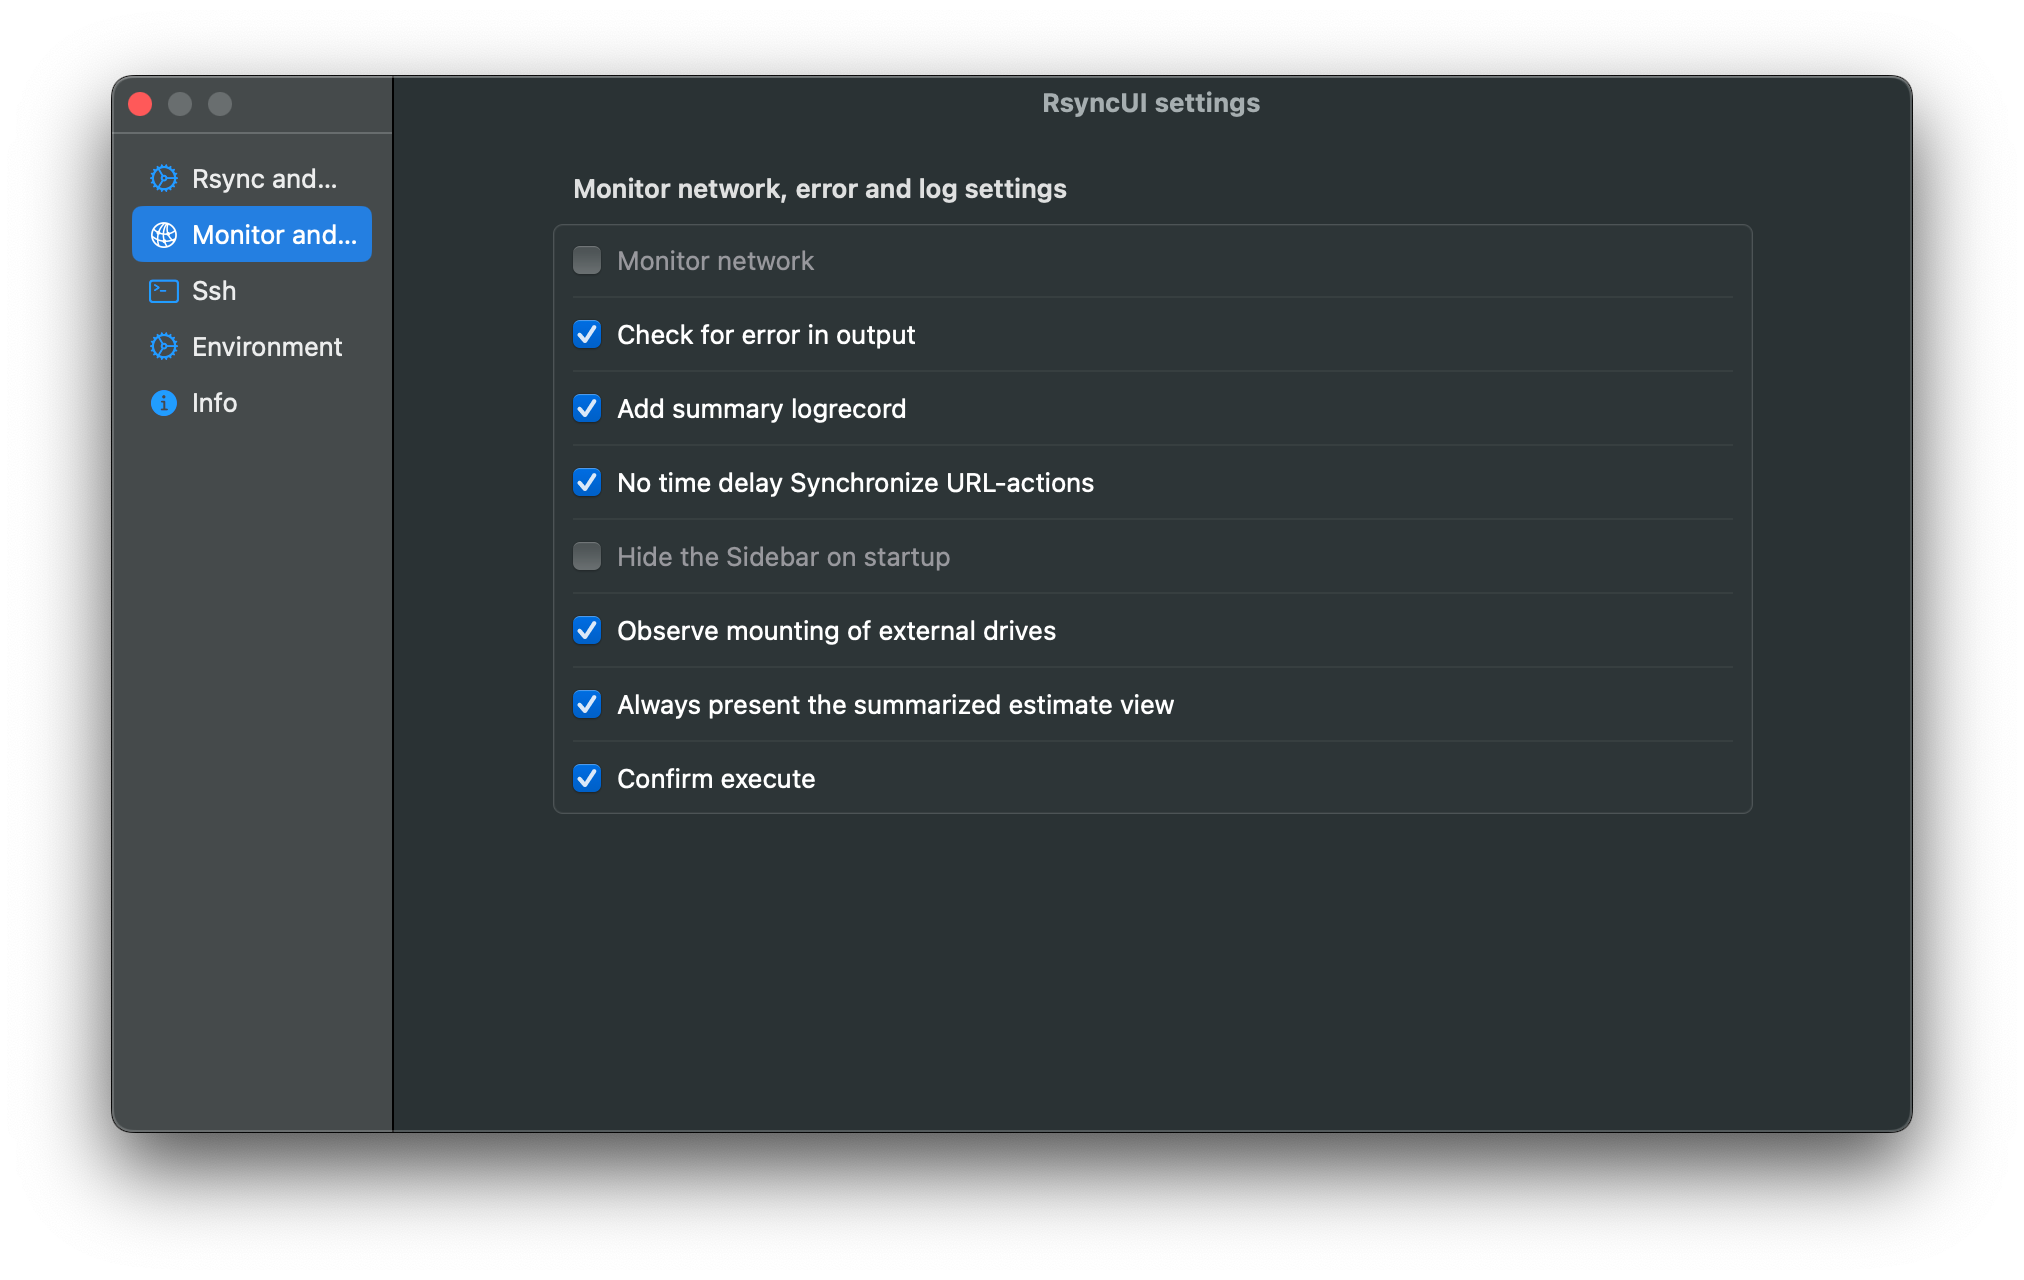
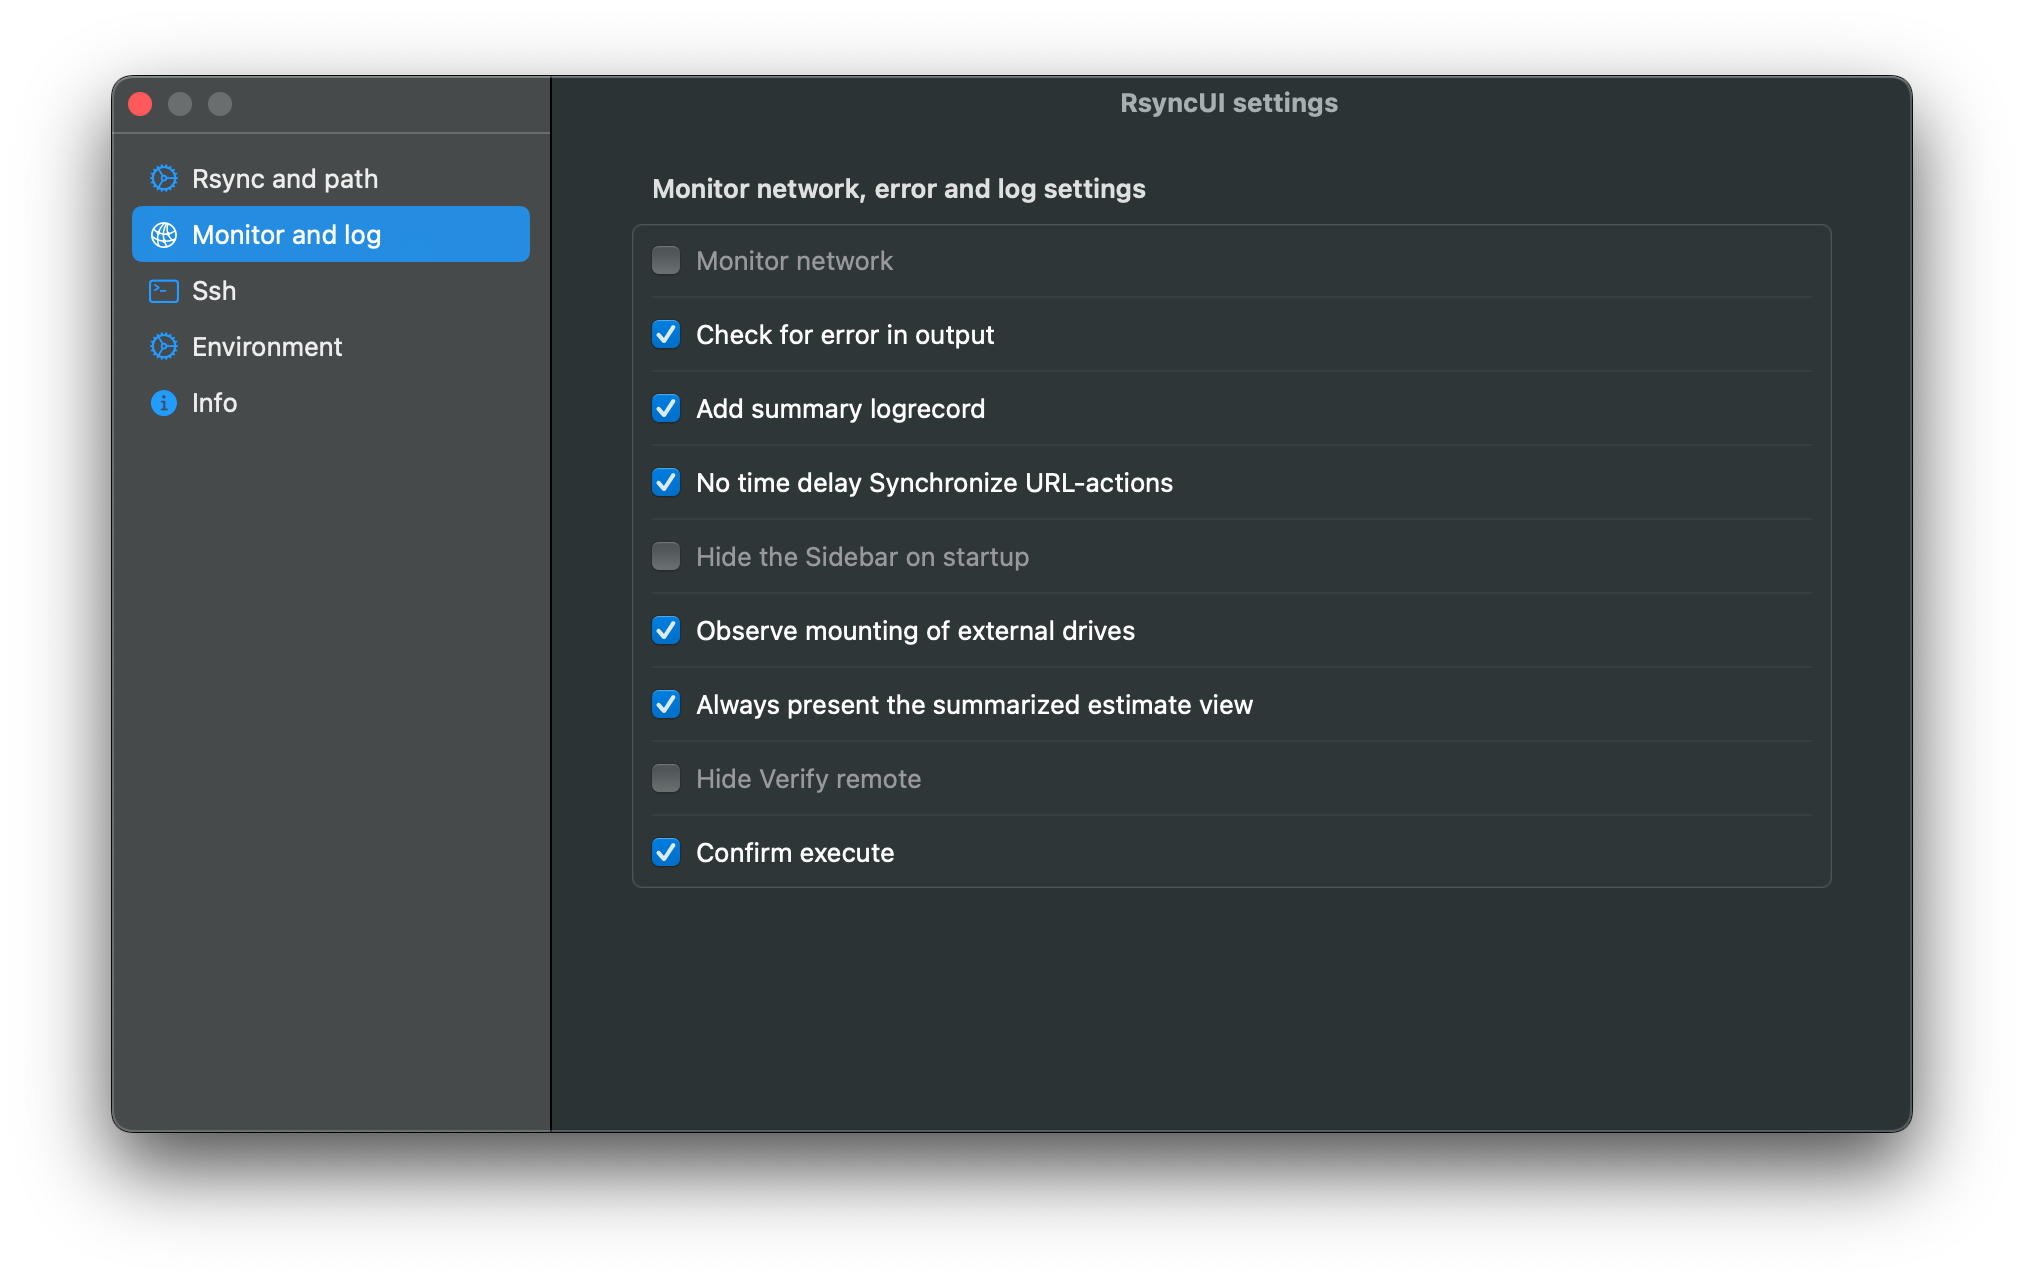
update

Changed region(s): [[0.1556, 0.0625, 0.6225, 0.9062], [0.498, 0.0625, 0.6537, 0.0938], [0.3113, 0.6562, 0.4358, 0.6875]]

diff --git a/content/en/docs/Important.md b/content/en/docs/Important.md
@@ -16,7 +16,7 @@ RsyncUI is a complimentary and open-source application. Kindly review the MIT li
 
 {{< /alert >}}
 
-Before executing a new task in RsyncUI, please perform an estimation run, a `--dry-run`, and inspect the result. If you inadvertently set an empty catalog as the source and the *delete parameter* is *enabled*, rsync will delete all files in the destination.
+Before executing a new task in RsyncUI, please perform an estimation run, a --dry-run, and inspect the result. If you inadvertently set an empty catalog as the source and the *delete parameter* is *enabled*, rsync will delete all files in the destination.
 
 {{< alert >}}
 
@@ -26,7 +26,7 @@ For instructions on executing an estimation run, refer to the *Getting started* 
 
 #### The delete parameter
 
-The `—delete` parameter, herein referred to as the *parameter*, enables rsync to maintain absolute synchronization between the source and destination directories. When a file is deleted from the source, the *parameter* instructs rsync to delete the corresponding file from the destination. Conversely, if the *parameter* is disabled, the destination directory will contain additional data after deleting files from the source.
+The --delete parameter, herein referred to as the *parameter*, enables rsync to maintain absolute synchronization between the source and destination directories. When a file is deleted from the source, the *parameter* instructs rsync to delete the corresponding file from the destination. Conversely, if the *parameter* is disabled, the destination directory will contain additional data after deleting files from the source.
 
 Therefore, it is crucial to ascertain whether the *parameter* is enabled or disabled. Enabling the *parameter* ensures complete synchronization between the source and destination directories.
 
@@ -43,7 +43,7 @@ Select the *Rsync parameters* from the primary Sidebar menu.  Select the task fo
 - if ON, the --delete parameter is included
 - if off, the --delete parameter is removed
 
-The complete rsync string is updatet when parameters are changed. 
+The complete rsync string is updated when parameters are changed. 
 
 {{< figure src="/images/important/deleteparameter.png" alt="" position="center" style="border-radius: 8px;" >}}
 
@@ -61,7 +61,7 @@ Using *snapshots*, the second option,  require that the latest version 3.x of `r
 
 #### Remote servers
 
-RsyncUI compels data transfer via SSH if the destination is a remote server. The parameter `-e ssh` to rsync enables data transfer to be tunneled via SSH. It appears that recent versions of rsync or SSH do not require this parameter, but for safety, RsyncUI appends it if the destination is a remote server.
+RsyncUI compels data transfer via SSH if the destination is a remote server. The parameter -e ssh to rsync enables data transfer to be tunneled via SSH. It appears that recent versions of rsync or SSH do not require this parameter, but for safety, RsyncUI appends it if the destination is a remote server.
 
 Through the SSH tunnel, the transfer is encrypted when transmitted over a network connection.
 

diff --git a/content/en/blog/input.md b/content/en/blog/input.md
@@ -22,11 +22,7 @@ It isn't clear what the tool does with Catalogs with spaces in the name. If I ad
 - To create a Remote catalog with space on Debian requiere the following command : `mkdir Blackmagic\ Design`.
 - The local Catalog also includes cataloges with space, the remote accepts spaces with no special actions.
 
-{{< figure src="/images/251/space.png" alt="" position="center" style="border-radius: 8px;" >}}
-
 The computed rsync command includes spaces, no escape characters needed. The only escape character needed is if you explicit are creating a destination catalog  on the Linux host including a space in catalog name. 
-
-{{< figure src="/images/251/space2.png" alt="" position="center" style="border-radius: 8px;" >}}
 
 #### Nr 2 - updated
 
@@ -71,23 +67,13 @@ I need to investigate this issue. I will change to Alert, modal popup, but the p
 
 *Please consolidate the logs in one place. There is a log button in Synchronize that leads to a window where latest updates are at the bottom and have to be scrolled down to. Also this log just smashes together output for all Tasks, and doesn't separate by Tasks. There's no log for Verify or Estimate. Every flow should just have a log so that we can troubleshoot rsync responses, as well as what the file sync actions or determinations are.*
 
-RsyncUI only create log records AFTER a sucessfull synchronization of data. It is not possible to store *every* output from rsync, output from rsync might be huge. And by any command in RsyncUI it is possibe to inspect to output from RsyncUI. If there are discovered errors in output, an error is thrown and the user can inspect the output.
+RsyncUI only create log records AFTER a successful synchronization of data. It is not possible to store *every* output from rsync, output from rsync might be huge. And by any command in RsyncUI it is possible to inspect to output from RsyncUI. If there are discovered errors in output, an error is thrown and the user can inspect the output.
 
 The logview always presents the most recent logs at top, not bottom. When opening the view and there are more than one task, the view show all log records. Most recent logs at top.
 
-{{< figure src="/images/251/alllogs.png" alt="" position="center" style="border-radius: 8px;" >}}
-
 If a task is selected, only log records for that task is presented. Most recent at top.
 
-{{< figure src="/images/251/selectedlogs.png" alt="" position="center" style="border-radius: 8px;" >}}
-
 How to inspect the output from rsync by an estimate run. The view is presented as part of en estimation run, please read the documentation section "Synchronize data"
-
-{{< figure src="/images/251/estimate.png" alt="" position="center" style="border-radius: 8px;" >}}
-
-Selection a row presents the output from rsync. Blue numbers indicates there are data to be synchronized.
-
-{{< figure src="/images/251/estimatedetails.png" alt="" position="center" style="border-radius: 8px;" >}}
 
 #### Nr 8 - updated
 

diff --git a/content/en/docs/_index.md b/content/en/docs/_index.md
@@ -3,17 +3,12 @@ title: RsyncUI - a GUI for rsync
 linkTitle: Documentation
 menu: { main: { weight: 20 } }
 ---
-{{< alert >}}
-
-There are a lot of UI updates in latest release version 2.5.3 (May 14, 2025). The update of documentation is commenced and there will be updates the next days.
-
-{{< /alert >}}
 
 *RsyncUI* is a macOS application developed using Swift and SwiftUI, designed for macOS Sonoma and subsequent versions. It leverages the command-line tool rsync for file synchronization. Notably, rsync executes the synchronization tasks, while RsyncUI provides a graphical user interface (GUI) on top of rsync. RsyncUI is *digitally signed* and *notarized* by Apple. RsyncUI is 100% open-source software and will remain absolutely free for all time.
 
 {{< alert color="warning" >}}
 
-As a safety precaution, the `—delete` parameter is not set as a default parameter when adding new tasks. To ensure that the source and destination are in complete synchronization, the `—delete` parameter must be *enabled*. If you are new to `rsync`, I strongly recommend reading the *"Important"* section as a minimum. 
+As a safety precaution, the --delete parameter is *not* set as a default parameter when adding new tasks. To ensure that the source and destination are in complete synchronization, the --delete parameter must be *enabled*. If you are new to `rsync`, I strongly recommend reading the *"Important"* section as a minimum. 
 
 {{< /alert >}}
 

diff --git a/content/en/docs/GettingStarted.md b/content/en/docs/GettingStarted.md
@@ -34,7 +34,7 @@ If you want to synchronize data to a server, on the Internet, or your local LAN,
 
 {{< /alert >}}
 
- Select the task and press the *play* button on the toolbar. Executing the *play* button includes the `--dry-run` parameter for rsync, which is an estimation run.
+ Select the task and press the *play* button on the toolbar. Executing the *play* button includes the --dry-run parameter for rsync, which is an estimation run.
 
 {{< figure src="/images/verifyatask/verifytask.png" alt="" position="center" style="border-radius: 8px;" >}}
 

diff --git a/content/en/docs/settings/networksettings.md b/content/en/docs/settings/networksettings.md
@@ -39,6 +39,10 @@ Changes to settings are automatically saved. A green thumb up notify when saving
 
 - after an estimate, by selecting the Magic Wand on toolbar Synchronize task view, always present the summarized view
 
+  **Hide Verify remote:**
+
+  - refer to section *"Verify remote"*, this is a kind of special function, default **not** enabled
+
 **Confirm Execution:**
 
 - See below.

diff --git a/content/en/docs/advanced/Verify.md b/content/en/docs/advanced/Verify.md
@@ -93,7 +93,3 @@ YXcstpoguax
         `--- u: The u slot is reserved for future use.
          `-- a: The ACL information changed
 ```
-
-{{< figure src="/images/verify/verifycompleted.png" alt="" position="center" style="border-radius: 8px;" >}}
-
-RsyncUI indicates remote is more updated. However, this is merely an advisory. I must verify this independently to ensure my certainty.

diff --git a/content/en/docs/newandupdatetasks/_index.md b/content/en/docs/newandupdatetasks/_index.md
@@ -10,7 +10,7 @@ A task requires a minimum of a local catalog, the source, and a remote catalog, 
 
 {{< alert color="warning" >}}
 
-Always verify the result of a new task before executing. Select the "Verify tasks" from the primary Sidebar menu.
+Always verify the result of a new task before executing. Select the *"Verify tasks"* from the primary Sidebar menu.
 
 {{< /alert >}}
 
